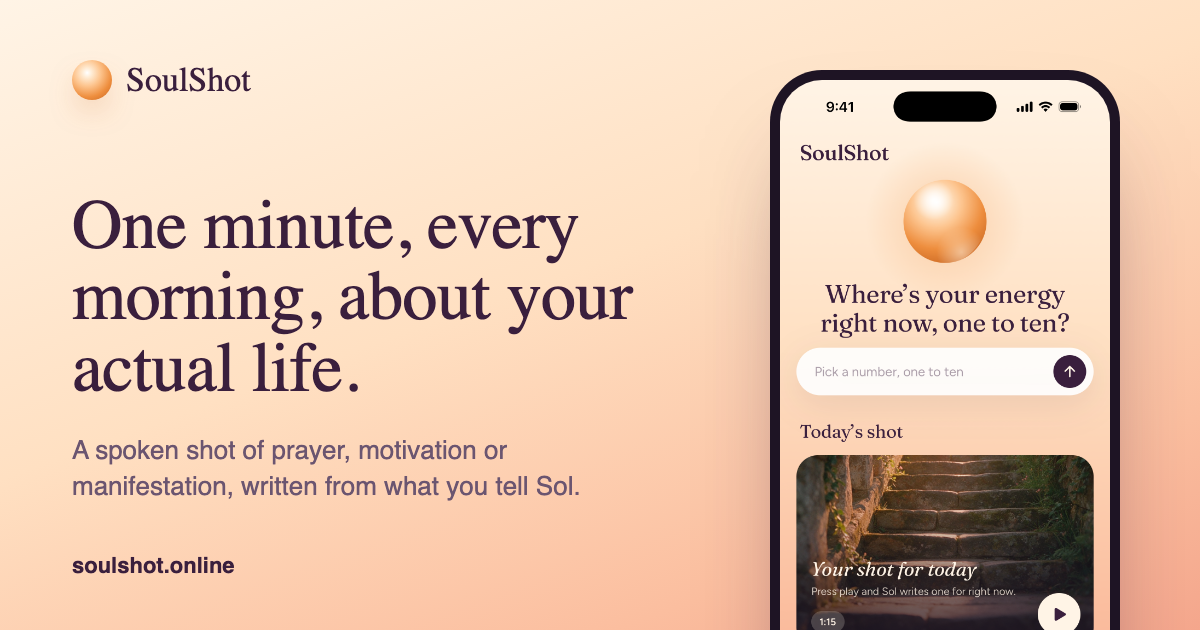
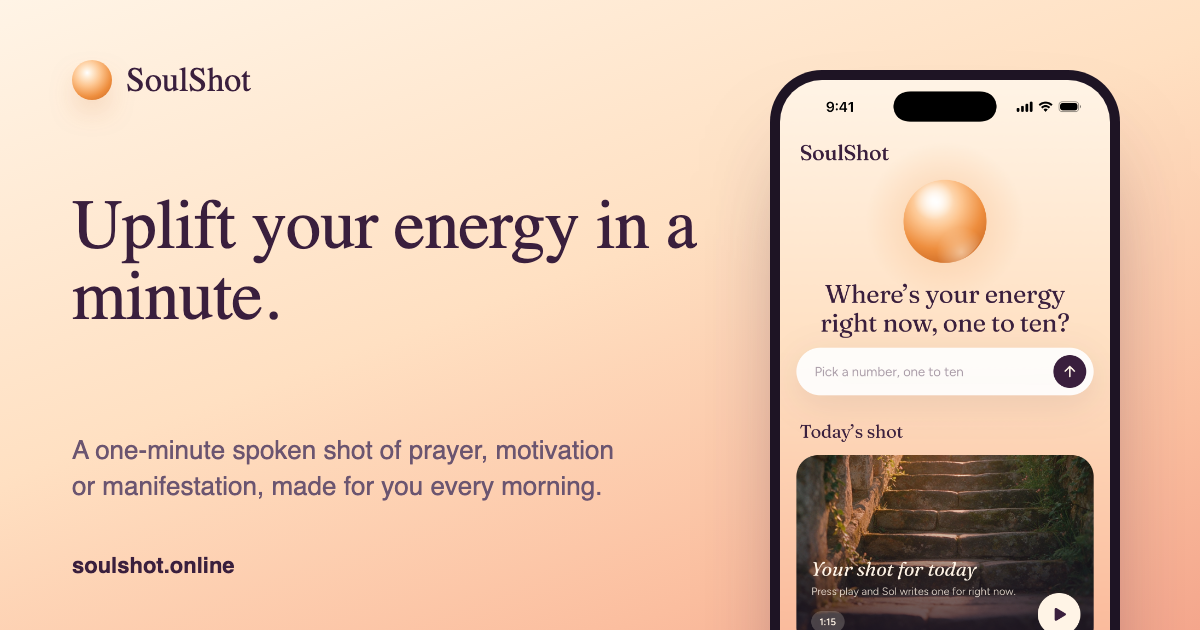
Lead with the promise; general screens; sample player wired for long plays

diff --git a/index.html b/index.html
@@ -4,12 +4,12 @@
 <meta charset="utf-8">
 <meta name="viewport" content="width=device-width, initial-scale=1, viewport-fit=cover">
 <title>SoulShot</title>
-<meta name="description" content="One minute of spoken prayer, motivation or manifestation every morning, written from what you tell Sol. Press play.">
+<meta name="description" content="Uplift your energy in a minute. A one-minute spoken shot of prayer, motivation or manifestation, made for you every morning. Press play.">
 <link rel="canonical" href="https://soulshot.online/">
 <meta property="og:type" content="website">
 <meta property="og:site_name" content="SoulShot">
 <meta property="og:title" content="SoulShot">
-<meta property="og:description" content="One minute, every morning, about your actual life. Prayer, motivation or manifestation, spoken to you.">
+<meta property="og:description" content="Uplift your energy in a minute. A one-minute spoken shot of prayer, motivation or manifestation, made for you every morning.">
 <meta property="og:url" content="https://soulshot.online/">
 <meta property="og:image" content="https://soulshot.online/img/og.png">
 <meta name="twitter:card" content="summary_large_image">
@@ -25,11 +25,6 @@
   // Shared shots used to open at the site root (?t=token). They now live at /s/.
   (function(){var q=location.search;if(/[?&]t=/.test(q)){location.replace('s/'+q+location.hash)}})();
 </script>
-<style>
-  /* Only the landing page has these. */
-  .hero h1 em { font-style: italic; }
-  .badge-note { font-size: .92rem; color: var(--plum-2); }
-</style>
 </head>
 <body>
 <div class="sky">
@@ -37,8 +32,8 @@
   <nav class="nav" aria-label="Site">
     <a class="brand" href="./"><span class="orb" aria-hidden="true"></span>SoulShot</a>
     <div class="nav-links">
+      <a class="plain listen-only" href="#listen" hidden>Listen</a>
       <a class="plain" href="#how">How it works</a>
-      <a class="plain" href="support/">Support</a>
       <a class="btn sm" href="https://apps.apple.com/app/id6813150517">Get the app</a>
     </div>
   </nav>
@@ -47,15 +42,16 @@
 <main class="wrap">
   <section class="hero" aria-labelledby="hero-title">
     <div class="hero-copy">
-      <h1 id="hero-title">One minute, every morning, about your actual life.</h1>
-      <p class="lede">SoulShot is a spoken shot of prayer, motivation or manifestation. It is written from what you tell Sol, read to you in a voice you picked, and waiting when you wake up. Your only job is to press play.</p>
+      <h1 id="hero-title">Uplift your energy in a minute.</h1>
+      <p class="lede">Every morning, SoulShot makes you a one-minute spoken shot: a prayer, a push, or a picture of where you are going. It is written for you, read in a voice you chose, and waiting when you wake up. Press play, and start the day lifted.</p>
       <div class="hero-cta">
         <a class="btn" href="https://apps.apple.com/app/id6813150517">
           <svg viewBox="0 0 24 24" aria-hidden="true"><path d="M16.4 12.6c0-2.5 2-3.7 2.1-3.7-1.2-1.7-3-1.9-3.6-2-1.5-.2-3 .9-3.8.9-.8 0-2-.9-3.3-.8-1.7 0-3.2 1-4.1 2.5-1.8 3-.5 7.6 1.3 10.1.9 1.2 1.9 2.6 3.2 2.6 1.3-.1 1.8-.8 3.3-.8 1.6 0 2 .8 3.3.8 1.4 0 2.3-1.3 3.1-2.5 1-1.4 1.4-2.8 1.4-2.9-.1 0-2.9-1.1-2.9-4.2zM14 5.3c.7-.8 1.2-2 1-3.2-1 .1-2.2.7-2.9 1.5-.6.7-1.2 1.9-1.1 3.1 1.1.1 2.3-.6 3-1.4z"/></svg>
           Download on the App Store
         </a>
-        <span class="hero-price">$5.99 a week. Cancel any time.</span>
+        <a class="btn ghost listen-only" href="#listen" hidden>Hear a shot</a>
       </div>
+      <p class="hero-price">$5.99 a week. Cancel any time.</p>
     </div>
     <div class="hero-art">
       <div class="orb-video" aria-hidden="true">
@@ -68,26 +64,61 @@
     </div>
   </section>
 
+  <section class="section" id="listen" aria-labelledby="listen-title">
+    <div class="section-head">
+      <h2 id="listen-title" data-live="Hear what a minute does." data-still="Three kinds of shot. You choose.">Three kinds of shot. You choose.</h2>
+      <p class="lede" id="listen-lede" data-live="Three real shots, one of each kind. Put your headphones on and press play. The ones the app makes for you are about your own day." data-still="Pick the kind of lift you want, and change it whenever you like.">Pick the kind of lift you want, and change it whenever you like.</p>
+    </div>
+    <div class="lanes samples" id="samples">
+      <article class="shot prayer sample" data-token="">
+        <img src="img/prayer.jpg" alt="" loading="lazy">
+        <div class="lane">Prayer</div>
+        <div class="title">Lord, hold the morning</div>
+        <p class="desc">Written in your own voice, to God as you understand God. It never speaks as God and never claims to know God’s will.</p>
+        <div class="bar" aria-hidden="true"><i></i></div>
+        <div class="meta"><span class="dur">1:10</span><button class="play" type="button" aria-label="Play the prayer sample"><svg class="ic-play" viewBox="0 0 24 24"><path d="M8 5v14l11-7z"/></svg><svg class="ic-pause" viewBox="0 0 24 24"><path d="M6 5h4v14H6zm8 0h4v14h-4z"/></svg></button></div>
+      </article>
+      <article class="shot motivation sample" data-token="">
+        <img src="img/motivation.jpg" alt="" loading="lazy">
+        <div class="lane">Motivation</div>
+        <div class="title">Before the 10am</div>
+        <p class="desc">A push for the one thing in front of you today, from something that remembers what you said about it yesterday.</p>
+        <div class="bar" aria-hidden="true"><i></i></div>
+        <div class="meta"><span class="dur">1:05</span><button class="play" type="button" aria-label="Play the motivation sample"><svg class="ic-play" viewBox="0 0 24 24"><path d="M8 5v14l11-7z"/></svg><svg class="ic-pause" viewBox="0 0 24 24"><path d="M6 5h4v14H6zm8 0h4v14h-4z"/></svg></button></div>
+      </article>
+      <article class="shot manifestation sample" data-token="">
+        <img src="img/manifestation.jpg" alt="" loading="lazy">
+        <div class="lane">Manifestation</div>
+        <div class="title">Already on its way</div>
+        <p class="desc">A clear picture of where you are going, in the present tense. It promises no cures, no money and no dates.</p>
+        <div class="bar" aria-hidden="true"><i></i></div>
+        <div class="meta"><span class="dur">1:05</span><button class="play" type="button" aria-label="Play the manifestation sample"><svg class="ic-play" viewBox="0 0 24 24"><path d="M8 5v14l11-7z"/></svg><svg class="ic-pause" viewBox="0 0 24 24"><path d="M6 5h4v14H6zm8 0h4v14h-4z"/></svg></button></div>
+      </article>
+    </div>
+    <audio id="voice" preload="none"></audio>
+    <audio id="bed" preload="none" loop></audio>
+  </section>
+
   <section class="section" id="how" aria-labelledby="how-title">
     <div class="section-head">
-      <h2 id="how-title">The coach asks. The shot gives.</h2>
-      <p class="lede">Sol never hands you advice. It asks one question at a time and keeps your own words. Those words are what the shot is made of.</p>
+      <h2 id="how-title">It asks. You answer. Your words become the shot.</h2>
+      <p class="lede">No forms, no journaling homework. SoulShot asks you one small question, like where your energy is on a scale of one to ten. Whatever you answer, in your own words, is what your shot is written from.</p>
     </div>
     <div class="steps">
       <div class="step">
-        <div class="phone sm"><img src="img/thread.jpg" width="1000" height="2164" alt="A thread with Sol: it asks how the interview feels, you answer, it asks what you already know you’ll do well." loading="lazy"></div>
+        <div class="phone sm"><img src="img/thread.jpg" width="1000" height="2164" alt="A conversation in the app: it asks where your energy is, you say a four, it asks what would make today a five." loading="lazy"></div>
         <div>
           <div class="step-num">First</div>
-          <h3>Sol asks one question.</h3>
-          <p>Where your energy is, what is on your mind, what you already know you will do well. Type, or hold to talk. Two or three answers is plenty.</p>
+          <h3>One question a day.</h3>
+          <p>Where’s your energy right now? What would make today a little better? Type it, or hold the button and say it. A sentence is enough.</p>
         </div>
       </div>
       <div class="step">
-        <div class="phone sm"><img src="img/player.jpg" width="1000" height="2164" alt="The player: a dark photo, the orb, the shot’s words lighting up line by line as they are spoken." loading="lazy"></div>
+        <div class="phone sm"><img src="img/player.jpg" width="1000" height="2164" alt="The player: a dark photo, the orb, and the shot’s words lighting up line by line as they are spoken." loading="lazy"></div>
         <div>
           <div class="step-num">Then</div>
-          <h3>Your words become the shot.</h3>
-          <p>A minute is written from what you said, read in the voice you chose over quiet music, with your words on screen as they are spoken. Overnight, or right when you ask for it.</p>
+          <h3>A minute, written for you.</h3>
+          <p>Your shot is written from what you said and read aloud in the voice you picked, over quiet music, with the words on screen as they are spoken.</p>
         </div>
       </div>
       <div class="step">
@@ -95,47 +126,16 @@
         <div>
           <div class="step-num">Every morning</div>
           <h3>Press play.</h3>
-          <p>A notification carries the first line. The widget plays it from your home screen. Every shot stays in your library, and the ones that landed get a heart.</p>
+          <p>A notification brings the first line. The widget plays it from your home screen. Every shot stays in your library, and the ones that landed get a heart.</p>
         </div>
       </div>
     </div>
-  </section>
-
-  <section class="section" id="lanes" aria-labelledby="lanes-title">
-    <div class="section-head">
-      <h2 id="lanes-title">Three kinds of shot. You pick the lane.</h2>
-      <p class="lede">The titles are your own words, pulled from what you told Sol. Nothing generic, nothing you could have found on a poster.</p>
-    </div>
-    <div class="lanes">
-      <div class="shot prayer">
-        <img src="img/prayer.jpg" alt="" loading="lazy">
-        <div class="lane">Prayer</div>
-        <div class="title">Before the wedding budget</div>
-        <p class="desc">In your own voice, to God as you understand God. It never speaks as God and never claims to know God’s will.</p>
-        <div class="meta"><span class="dur">1:10</span></div>
-      </div>
-      <div class="shot motivation">
-        <img src="img/motivation.jpg" alt="" loading="lazy">
-        <div class="lane">Motivation</div>
-        <div class="title">The run before work</div>
-        <p class="desc">A push for the one thing in front of you today, from someone who remembers what you said about it yesterday.</p>
-        <div class="meta"><span class="dur">1:15</span></div>
-      </div>
-      <div class="shot manifestation">
-        <img src="img/manifestation.jpg" alt="" loading="lazy">
-        <div class="lane">Manifestation</div>
-        <div class="title">The apartment with the window</div>
-        <p class="desc">A clear picture of where you are going, in the present tense. No promises of cures, money or dates.</p>
-        <div class="meta"><span class="dur">1:05</span></div>
-      </div>
-    </div>
-
     <div class="words">
       <div class="script" aria-label="Sample shot">
-        <p>Jap, it’s almost two o’clock.</p>
-        <p class="now">You walk in already ready.</p>
-        <p>Nobody in that room knows the product the way you do.</p>
-        <small>A motivation shot, thirty seconds before an interview. Written from two answers in the thread that morning.</small>
+        <p>It’s Tuesday, and you’re already tired.</p>
+        <p class="now">That’s allowed.</p>
+        <p>Ten o’clock is one hour, not the whole day.</p>
+        <small>A motivation shot, from one answer: “Getting through the 10am without dreading it.”</small>
       </div>
       <div class="phone sm"><img src="img/player.jpg" width="1000" height="2164" alt="" loading="lazy"></div>
     </div>
@@ -144,7 +144,7 @@
   <section class="section" id="ritual" aria-labelledby="ritual-title">
     <div class="section-head">
       <h2 id="ritual-title">Effort optional. Uplift guaranteed.</h2>
-      <p class="lede">The app never demands anything. Talk to Sol when you feel like it. On the days you don’t, the shot still arrives.</p>
+      <p class="lede">The app never demands anything. Answer the question when you feel like it. On the days you don’t, the shot still arrives.</p>
     </div>
     <div class="ritual">
       <div>
@@ -156,8 +156,8 @@
         <p>Missed a day, or a week? You are met with a shot, not a lecture. There is no guilt anywhere in this app.</p>
       </div>
       <div>
-        <h3>Sol remembers.</h3>
-        <p>The person you mentioned, the date that matters, the thing you are afraid of. You can see everything it keeps, and delete any of it, under Profile.</p>
+        <h3>It remembers.</h3>
+        <p>The person you mentioned, the date that matters, the thing you are worried about. You can see everything it keeps, and delete any of it, under Profile.</p>
       </div>
     </div>
   </section>
@@ -171,10 +171,10 @@
         <a class="btn" href="https://apps.apple.com/app/id6813150517" style="margin-top:26px">Download on the App Store</a>
       </div>
       <ul>
-        <li>A new spoken shot every day, about your life</li>
+        <li>A new spoken shot every day, about your own day</li>
         <li>Prayer, motivation and manifestation, in the voice you choose</li>
-        <li>Sol, a coach that asks and remembers</li>
-        <li>Cards, a home-screen widget and notifications at your moments</li>
+        <li>One question a day, answered by typing or talking</li>
+        <li>Short written cards, a home-screen widget and notifications at your moments</li>
         <li>Delete your account, and everything in it, whenever you like</li>
       </ul>
     </div>
@@ -184,15 +184,19 @@
     <h2 id="faq-title">Questions people ask</h2>
     <div class="faq">
       <details>
-        <summary>Is Sol a therapist?</summary>
-        <p>No. Sol is a coach that asks questions and keeps your answers. SoulShot is not medical, psychological, financial or legal advice. If something you write suggests you may be in danger, the app shows support resources instead of a reply.</p>
+        <summary>Is this therapy?</summary>
+        <p>No. SoulShot asks a question and writes you a minute of encouragement from your answer. It is not medical, psychological, financial or legal advice. If something you write suggests you may be in danger, the app shows support resources instead of a reply.</p>
       </details>
       <details>
         <summary>Does a prayer shot speak as God?</summary>
-        <p>Never. A prayer shot is written in your own voice, addressed to God as you understand God. It does not claim to know God’s will, and you can tell Sol your tradition so the words fit.</p>
+        <p>Never. A prayer shot is written in your own voice, addressed to God as you understand God. It does not claim to know God’s will, and you can tell the app your tradition so the words fit.</p>
       </details>
       <details>
-        <summary>What happens to what I tell Sol?</summary>
+        <summary>Who writes the shots?</summary>
+        <p>AI writes and voices them, from your own answers, with rules about what a shot may and may not say. A shot can still miss the point; tap thumbs-down and the next one learns from it.</p>
+      </details>
+      <details>
+        <summary>What happens to what I tell it?</summary>
         <p>It is used for one thing: to write your shots. Entries are stored encrypted and only your account can read them. We do not sell your information or use it for ads. The <a href="privacy/">Privacy Policy</a> lists every company that touches it and why.</p>
       </details>
       <details>
@@ -201,7 +205,7 @@
       </details>
       <details>
         <summary>How do I delete my account?</summary>
-        <p>Profile, then Delete account. It removes every entry, every shot and its audio, and everything Sol remembered. It cannot be undone, and it does not cancel your subscription, so cancel first.</p>
+        <p>Profile, then Delete account. It removes every entry, every shot and its audio, and everything the app remembered. It cannot be undone, and it does not cancel your subscription, so cancel first.</p>
       </details>
       <details>
         <summary>Can I share a shot?</summary>
@@ -212,8 +216,47 @@
 </main>
 
 <script>
-  // Some browsers hold a muted autoplay until the page is settled; ask once more.
-  (function(){var v=document.querySelector(".orb-video video");if(!v)return;var go=function(){v.play().catch(function(){})};if(v.readyState>=2)go();else v.addEventListener("canplay",go,{once:true})})();
+(function(){
+  // The hero clip: some browsers hold a muted autoplay until the page settles.
+  var v=document.querySelector('.orb-video video');
+  if(v){var go=function(){v.play().catch(function(){})};if(v.readyState>=2)go();else v.addEventListener('canplay',go,{once:true})}
+
+  // The samples: three published long plays, fetched from the share function
+  // by their public id (the same way a shared link plays), voice over the
+  // lane's music bed. A card with no token stays a still card.
+  var API='https://uipfkozpxhfnmvrdkhsc.supabase.co/functions/v1/share/';
+  var voice=document.getElementById('voice'),bed=document.getElementById('bed');
+  var cards=Array.prototype.slice.call(document.querySelectorAll('.sample'));
+  var live=cards.filter(function(c){return c.dataset.token});
+  var on=live.length>0,h=document.getElementById('listen-title'),l=document.getElementById('listen-lede');
+  h.textContent=on?h.dataset.live:h.dataset.still;l.textContent=on?l.dataset.live:l.dataset.still;
+  Array.prototype.forEach.call(document.querySelectorAll('.listen-only'),function(a){a.hidden=!on});
+  cards.forEach(function(c){if(!c.dataset.token)c.classList.add('still')});
+  var current=null,gain=0,fade=null;
+  function fmt(s){s=Math.max(0,Math.round(s));return Math.floor(s/60)+':'+String(s%60).padStart(2,'0')}
+  function ramp(to,ms,done){clearInterval(fade);var from=bed.volume,steps=10,i=0;fade=setInterval(function(){i++;bed.volume=Math.max(0,Math.min(1,from+(to-from)*i/steps));if(i>=steps){clearInterval(fade);done&&done()}},ms/steps)}
+  function stop(){if(!current)return;voice.pause();current.classList.remove('playing');current.querySelector('.bar i').style.width='0';current=null}
+  live.forEach(function(card){
+    var btn=card.querySelector('.play'),shot=null;
+    fetch(API+encodeURIComponent(card.dataset.token)+'?format=json',{headers:{accept:'application/json'}})
+      .then(function(r){if(!r.ok)throw 0;return r.json()})
+      .then(function(s){shot=s;if(s.title)card.querySelector('.title').textContent=s.title;if(s.durationSeconds)card.querySelector('.dur').textContent=fmt(s.durationSeconds)})
+      .catch(function(){card.classList.add('still')});
+    btn.addEventListener('click',function(){
+      if(current===card){if(voice.paused){voice.play()}else{voice.pause()}return}
+      if(!shot||!shot.audioUrl)return;
+      stop();current=card;
+      voice.src=shot.audioUrl;
+      gain=shot.bed&&shot.bed.url?Math.max(0,Math.min(1,shot.bed.gain||0.3)):0;
+      if(gain){bed.src=shot.bed.url;bed.volume=0}
+      voice.play().catch(function(){});
+    });
+  });
+  voice.addEventListener('play',function(){if(!current)return;current.classList.add('playing');current.querySelector('.play').setAttribute('aria-label','Pause');if(gain){bed.play().catch(function(){});ramp(gain,900)}});
+  voice.addEventListener('pause',function(){if(!current)return;current.classList.remove('playing');current.querySelector('.play').setAttribute('aria-label','Play');if(gain&&!voice.ended)ramp(0,400,function(){bed.pause()})});
+  voice.addEventListener('timeupdate',function(){if(current&&voice.duration)current.querySelector('.bar i').style.width=(voice.currentTime/voice.duration*100)+'%'});
+  voice.addEventListener('ended',function(){if(gain)ramp(0,1500,function(){bed.pause();bed.currentTime=0});stop()});
+})();
 </script>
 
 <footer class="wrap">

diff --git a/site.css b/site.css
@@ -282,3 +282,17 @@ p { margin: 0; }
 .contact-card .email { font-family: var(--serif); font-size: 1.6rem; word-break: break-all; }
 .contact-card p { margin-top: 10px; color: var(--plum-2); }
 .contact-card .btn { margin-top: 18px; }
+
+/* Samples: the three playable cards under the hero. ------------------------ */
+.hero-copy .hero-price { margin-top: 18px; }
+.shot .bar { height: 3px; border-radius: 3px; background: rgba(255, 244, 230, .28); margin-top: 16px; overflow: hidden; }
+.shot .bar i { display: block; height: 100%; width: 0; background: var(--cream); transition: width .25s linear; }
+.shot.sample .meta { margin-top: 12px; }
+.shot .play { border: 0; cursor: pointer; transition: transform .15s ease; }
+.shot .play:hover { transform: scale(1.06); }
+.shot .play .ic-pause { display: none; }
+.shot.playing .play .ic-play { display: none; }
+.shot.playing .play .ic-pause { display: block; margin-left: 0; }
+.shot.still .play, .shot.still .bar { display: none; }
+
+@media (prefers-reduced-motion: reduce) { .shot .bar i { transition: none; } }
